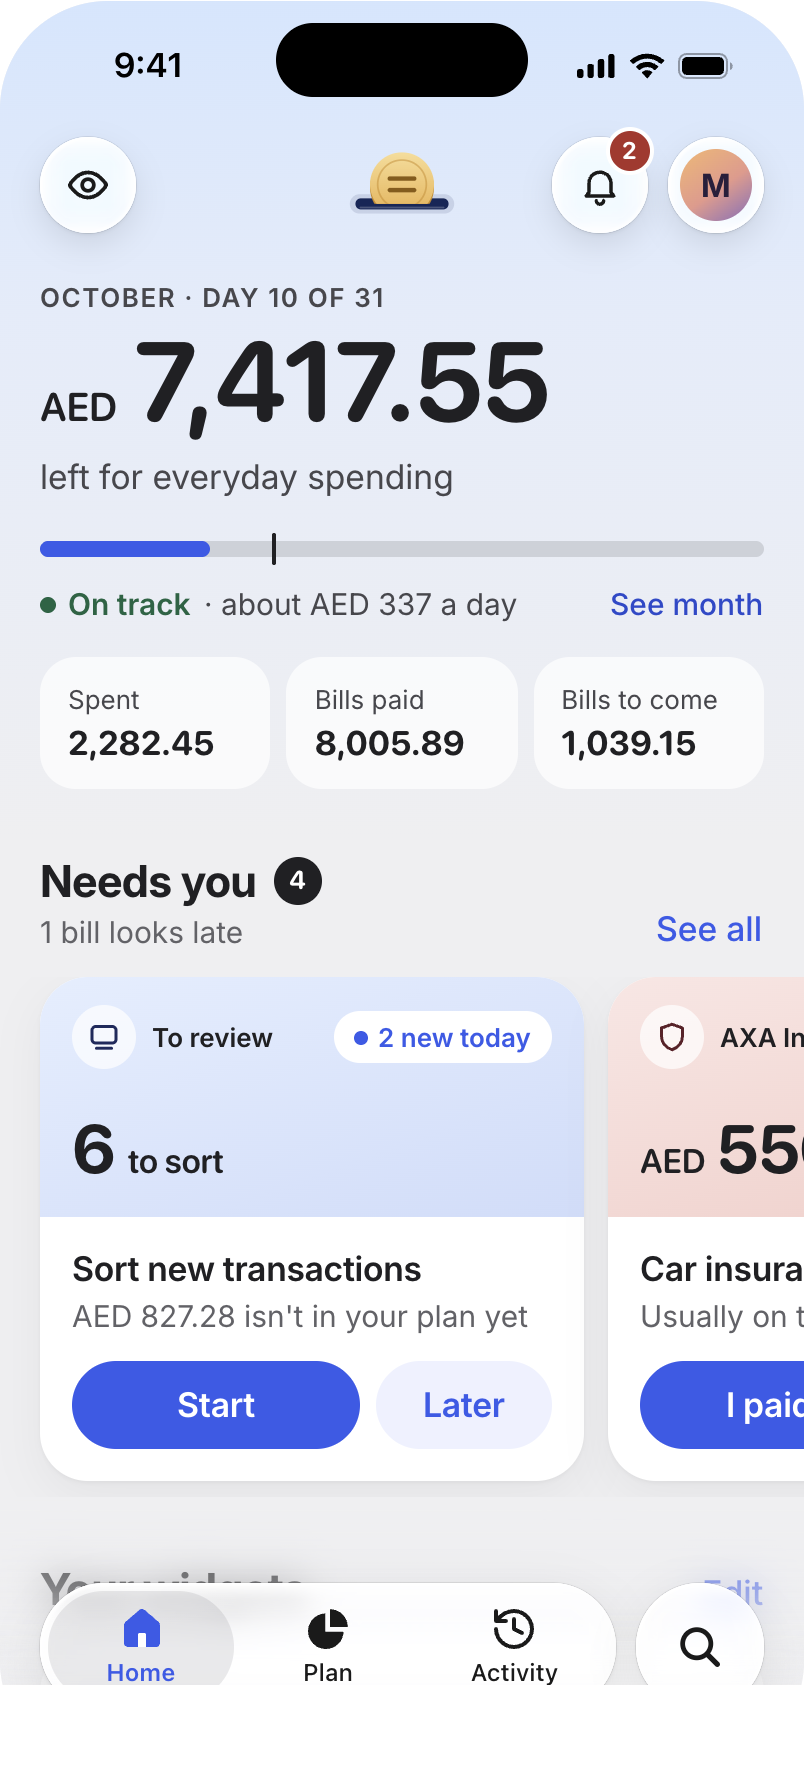
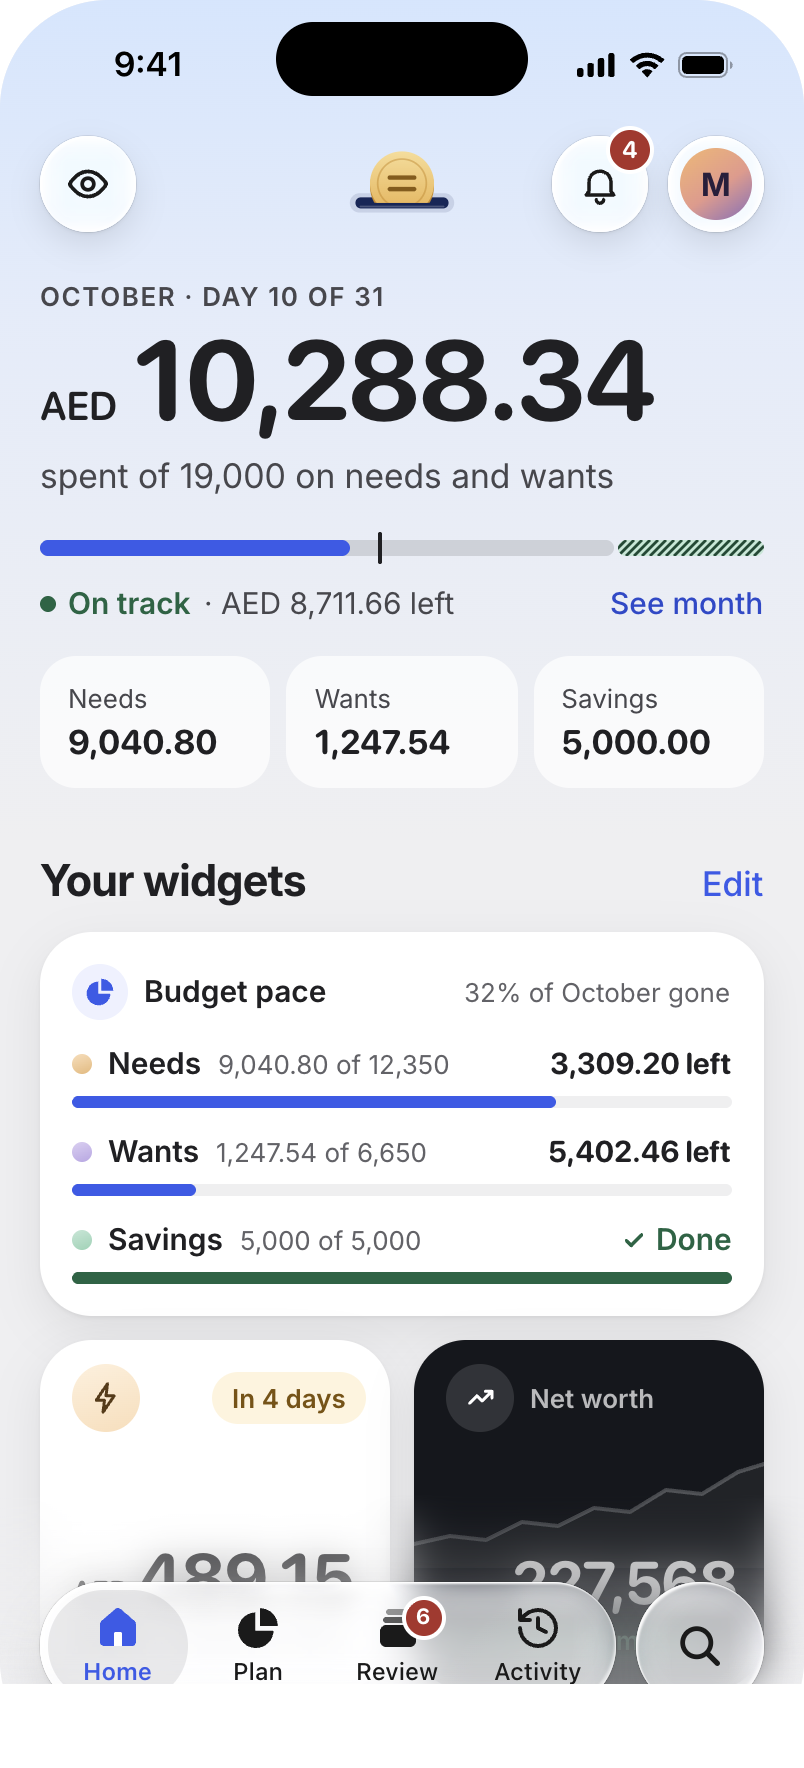
web: Home shows spent on needs and wants (#40)
Bring the site in line with the Paper design (14 Oct):
- Hero phone screenshot is the current Home: AED 10,288.34 spent of
  19,000 on needs and wants, on track with 8,711.66 left, savings block
  at the end of the month bar, bell badge 4, no "Needs you". Alt text
  updated. /i uses the same image.
- Budgeting page: the example section now shows the spent model
  ("How much can I still spend?"), a bills-this-month row, and fits a
  longer figure at 390 wide (figure 44 px minimum, mobile bar per Paper).
- llms-full.txt describes the new main figure.

diff --git a/web/src/data/llms.ts b/web/src/data/llms.ts
@@ -56,7 +56,7 @@ export function llmsFullTxt(legal: { title: string; url: string; body: string }[
 2. Check the categories. Each alert becomes a transaction. Hasala sorts most of them into categories: your rules first, then a UAE merchant list, then Apple's on-device model. You confirm the rest: transactions Hasala can't sort on its own wait in a short deck, where you tap Use to take its guess, or swipe to Want, Need, Save or Transfer and then pick the category. Hasala remembers the merchant.
 3. See where it went. Hasala shows what you spent, on what, and what's left this month. It also starts you on a simple plan.
 
-Budgeting: what's left for everyday spending this month is one figure, with a bar for how fast it's going. The starting plan is 50/30/20 (Needs, Wants, Savings), and you can change it. Lock-screen notifications are generic by default. Emails come from ${SITE.mailFrom}.
+Budgeting: the main figure is what you've spent on needs and wants this month, out of what your plan allows for them (for example AED 10,288.34 spent of 19,000), with a bar for how fast you're spending it and how much is left (AED 8,711.66). Bills this month are listed with each bill's amount and whether it is paid. The starting plan is 50/30/20 (Needs, Wants, Savings), and you can change it. Lock-screen notifications are generic by default. Emails come from ${SITE.mailFrom}.
 
 ## Who can see what
 
